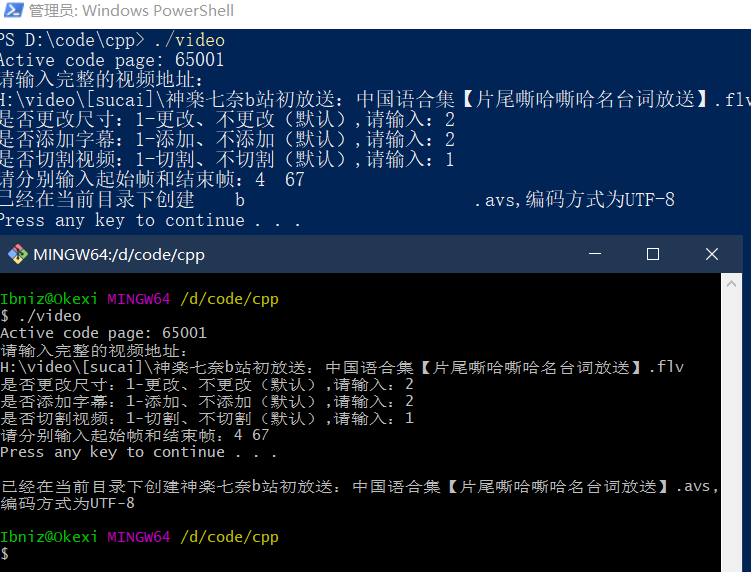
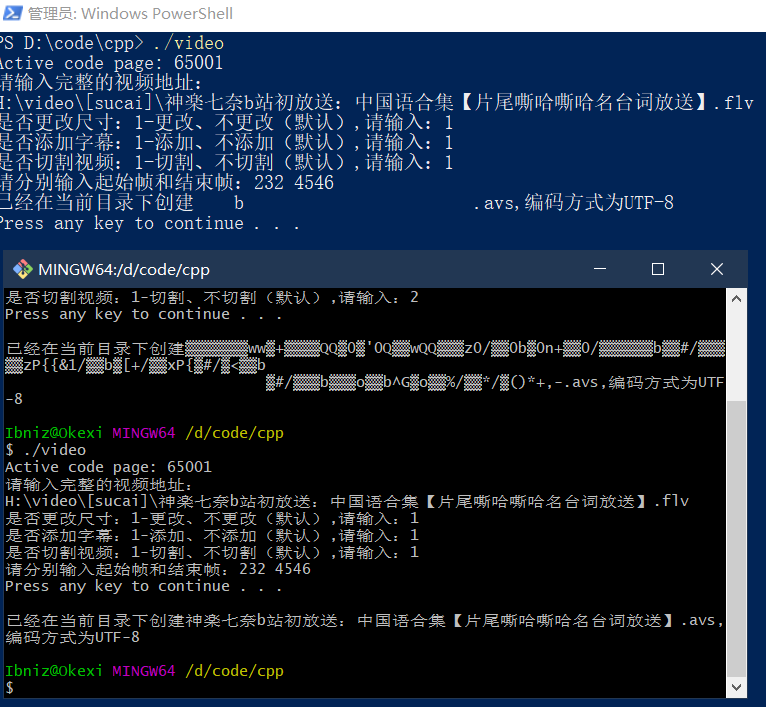
之前不支持中文文件名的原因在于powershell

diff --git a/README.md b/README.md
@@ -3,16 +3,18 @@
 主要功能：后期视频压制avs脚本的生成
 ### 目前的功能
 举个例子：
+![运行结果](./Pic/Res.png)
+生成的`神楽七奈b站初放送：中国语合集【片尾嘶哈嘶哈名台词放送】.avs`中的内容
 ```
 LoadPlugin("D:\Programs\MeGUI\tools\ffms\ffms2.dll")
 LoadPlugin("D:\Programs\MeGUI\tools\avisynth_plugin\VSFilter.dll")
-video=FFVideoSource("H:\video\在地下城寻求邂逅是否搞错了什么\[Danmachi][NCED3].mp4").LanczosResize(1280,720).TextSub("H:\video\在地下城寻求邂逅是否搞错了什么\[Danmachi][NCED3].ass")
-audio=FFAudioSource("H:\video\在地下城寻求邂逅是否搞错了什么\[Danmachi][NCED3].mp4")
+video=FFVideoSource("H:\video\[sucai]\神楽七奈b站初放送：中国语合集【片尾嘶哈嘶哈名台词放送】.flv").LanczosResize(1280,720).TextSub("H:\video\[sucai]\神楽七奈b站初放送：中国语合集【片尾嘶哈嘶哈名台词放送】.ass")
+audio=FFAudioSource("H:\video\[sucai]\神楽七奈b站初放送：中国语合集【片尾嘶哈嘶哈名台词放送】.flv")
 AudioDub(video,audio)
-trim(1,556)
+trim(232,4546)
+
 ```
 
 相信能满足大部分人的后期需求，`LanczosResize`更改分辨率，当前默认更改为720p,`TextSub`添加字幕（字幕需要在同文件夹下，与视频同名），`trim(1,556)` 裁取 1-556 帧。
 ### 更新
 之前不支持中文文件名的原因在于powershell
-![运行结果](./Pic/Res.png)
